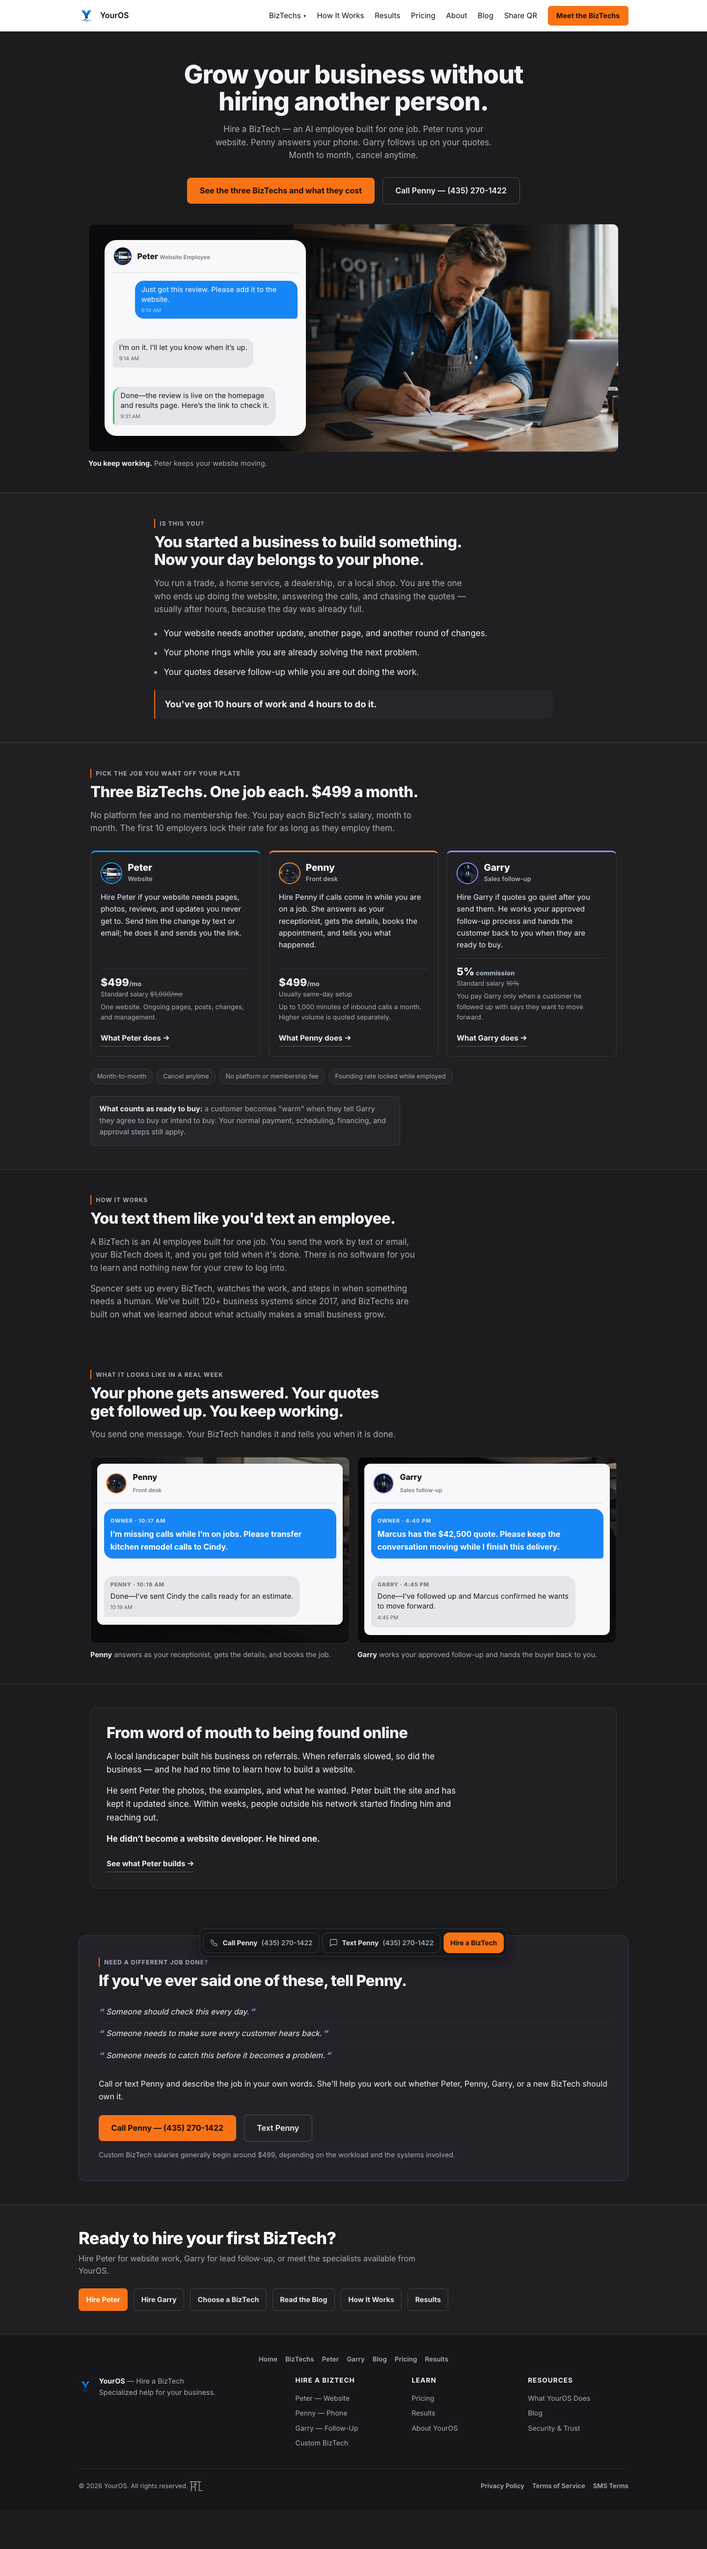
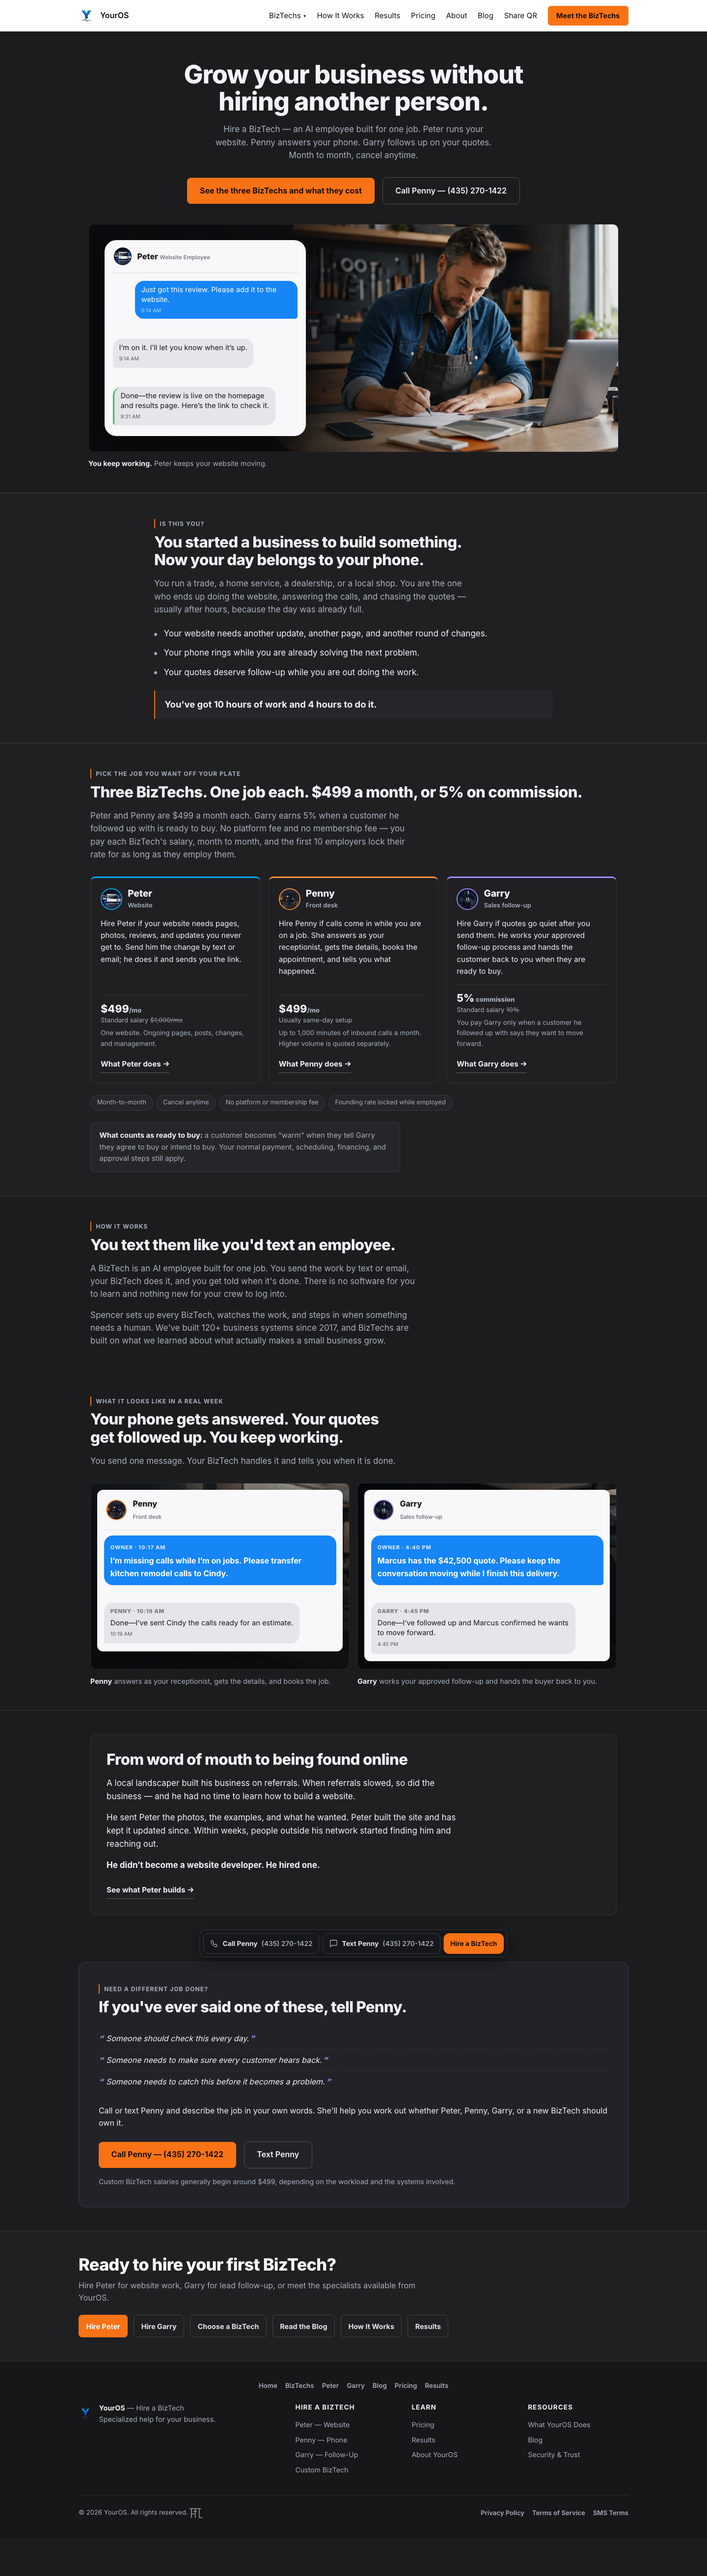
Correct pricing headline and fix anchor scroll offset
- The section h2 read "$499 a month", which is not true for Garry. It
  now reads "$499 a month, or 5% on commission" and the lead states
  each rate explicitly, matching /pricing/.
- Anchor targets gained scroll-margin-top so the sticky 64px header no
  longer covers the section heading when the hero CTA jumps to
  #biztechs.

diff --git a/index.html b/index.html
@@ -59,6 +59,8 @@
     h2 { font-size: clamp(1.5rem, 2.7vw, 1.95rem); line-height: 1.18; }
     h3 { font-size: 1.2rem; font-weight: 700; line-height: 1.3; letter-spacing: -0.01em; }
     :focus-visible { outline: 2px solid #7ab8ff; outline-offset: 2px; border-radius: 4px; }
+    /* The header is sticky at 64px; keep anchor targets clear of it. */
+    [id] { scroll-margin-top: 84px; }
     .wrapper { max-width: 1120px; margin: 0 auto; padding: 0 1.5rem; }
     .section { padding: var(--s-6) 0; }
     p + p { margin-top: 1rem; }
@@ -697,8 +699,8 @@
     <span id="pricing" aria-hidden="true"></span>
     <div class="wrapper">
       <div class="kicker">Pick the job you want off your plate</div>
-      <h2>Three BizTechs. One job each. $499 a month.</h2>
-      <p class="lead">No platform fee and no membership fee. You pay each BizTech's salary, month to month. The first 10 employers lock their rate for as long as they employ them.</p>
+      <h2>Three BizTechs. One job each. $499 a month, or 5% on commission.</h2>
+      <p class="lead">Peter and Penny are $499 a month each. Garry earns 5% when a customer he followed up with is ready to buy. No platform fee and no membership fee — you pay each BizTech's salary, month to month, and the first 10 employers lock their rate for as long as they employ them.</p>
 
       <div class="biztech-grid">
         <div class="bt-card peter">
